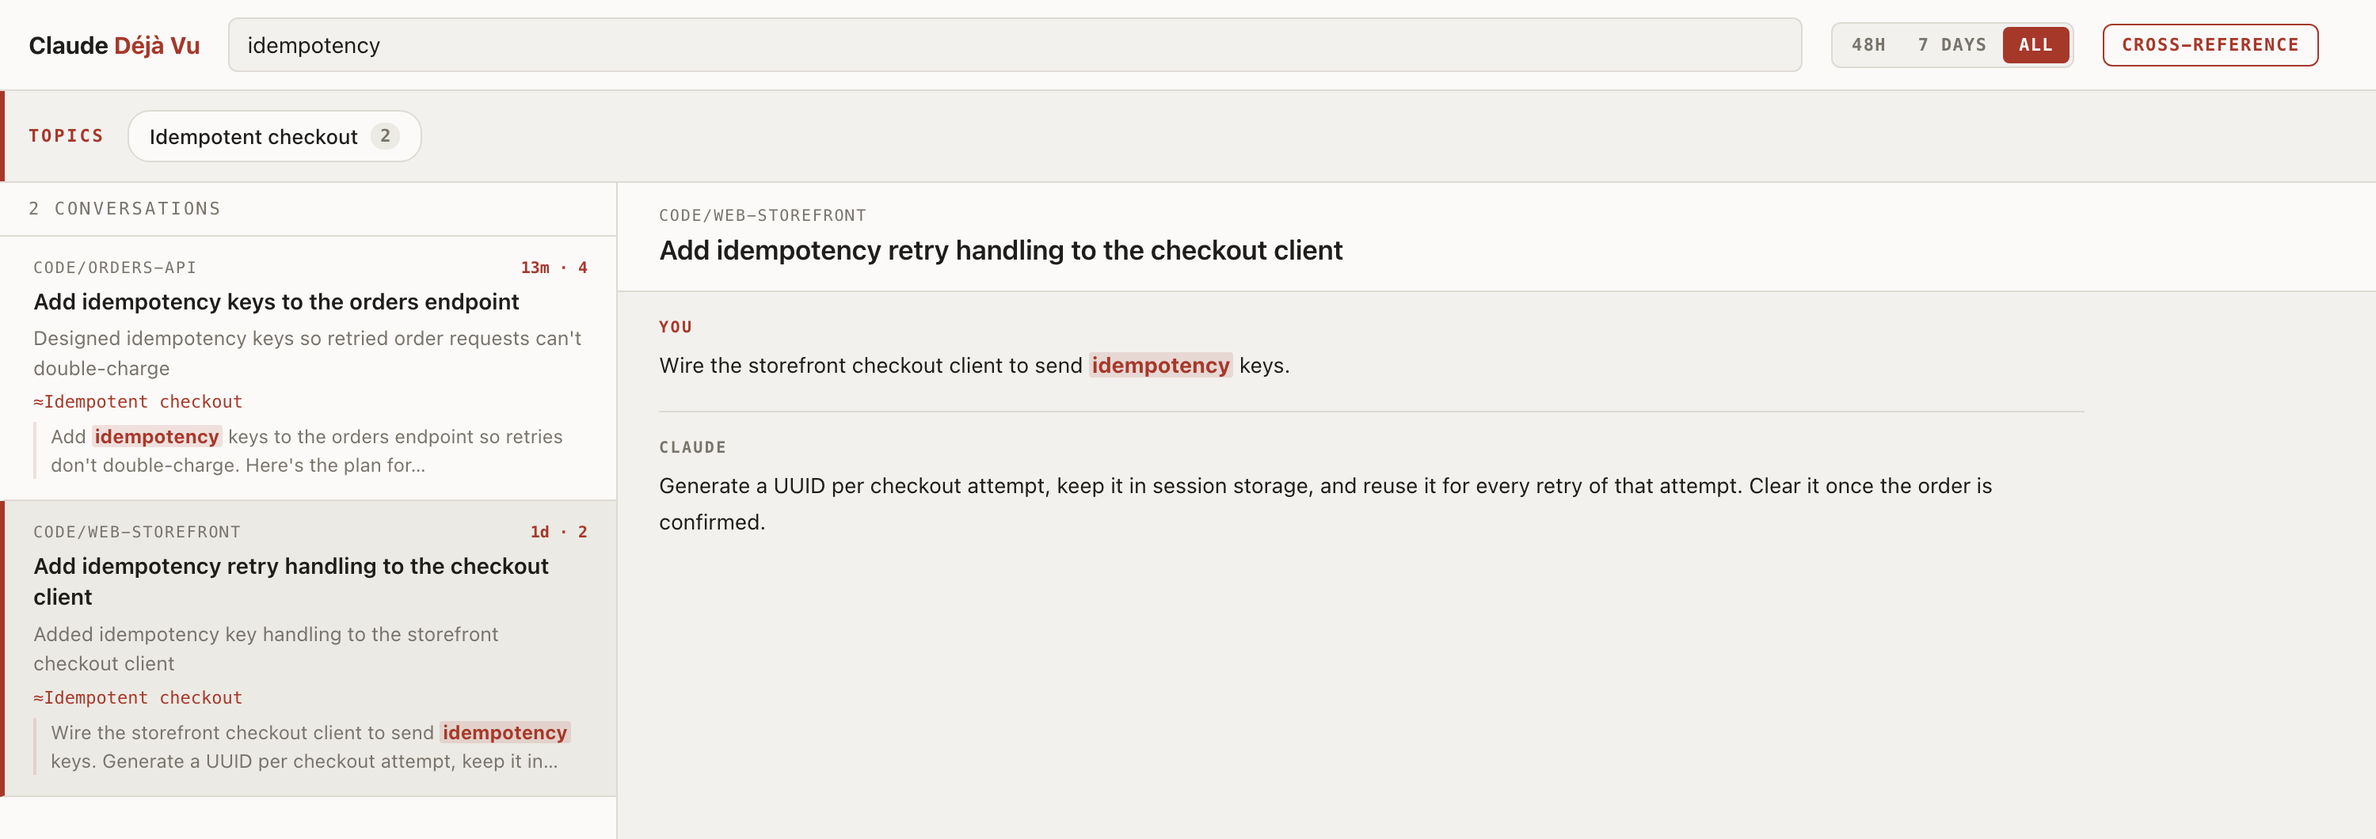
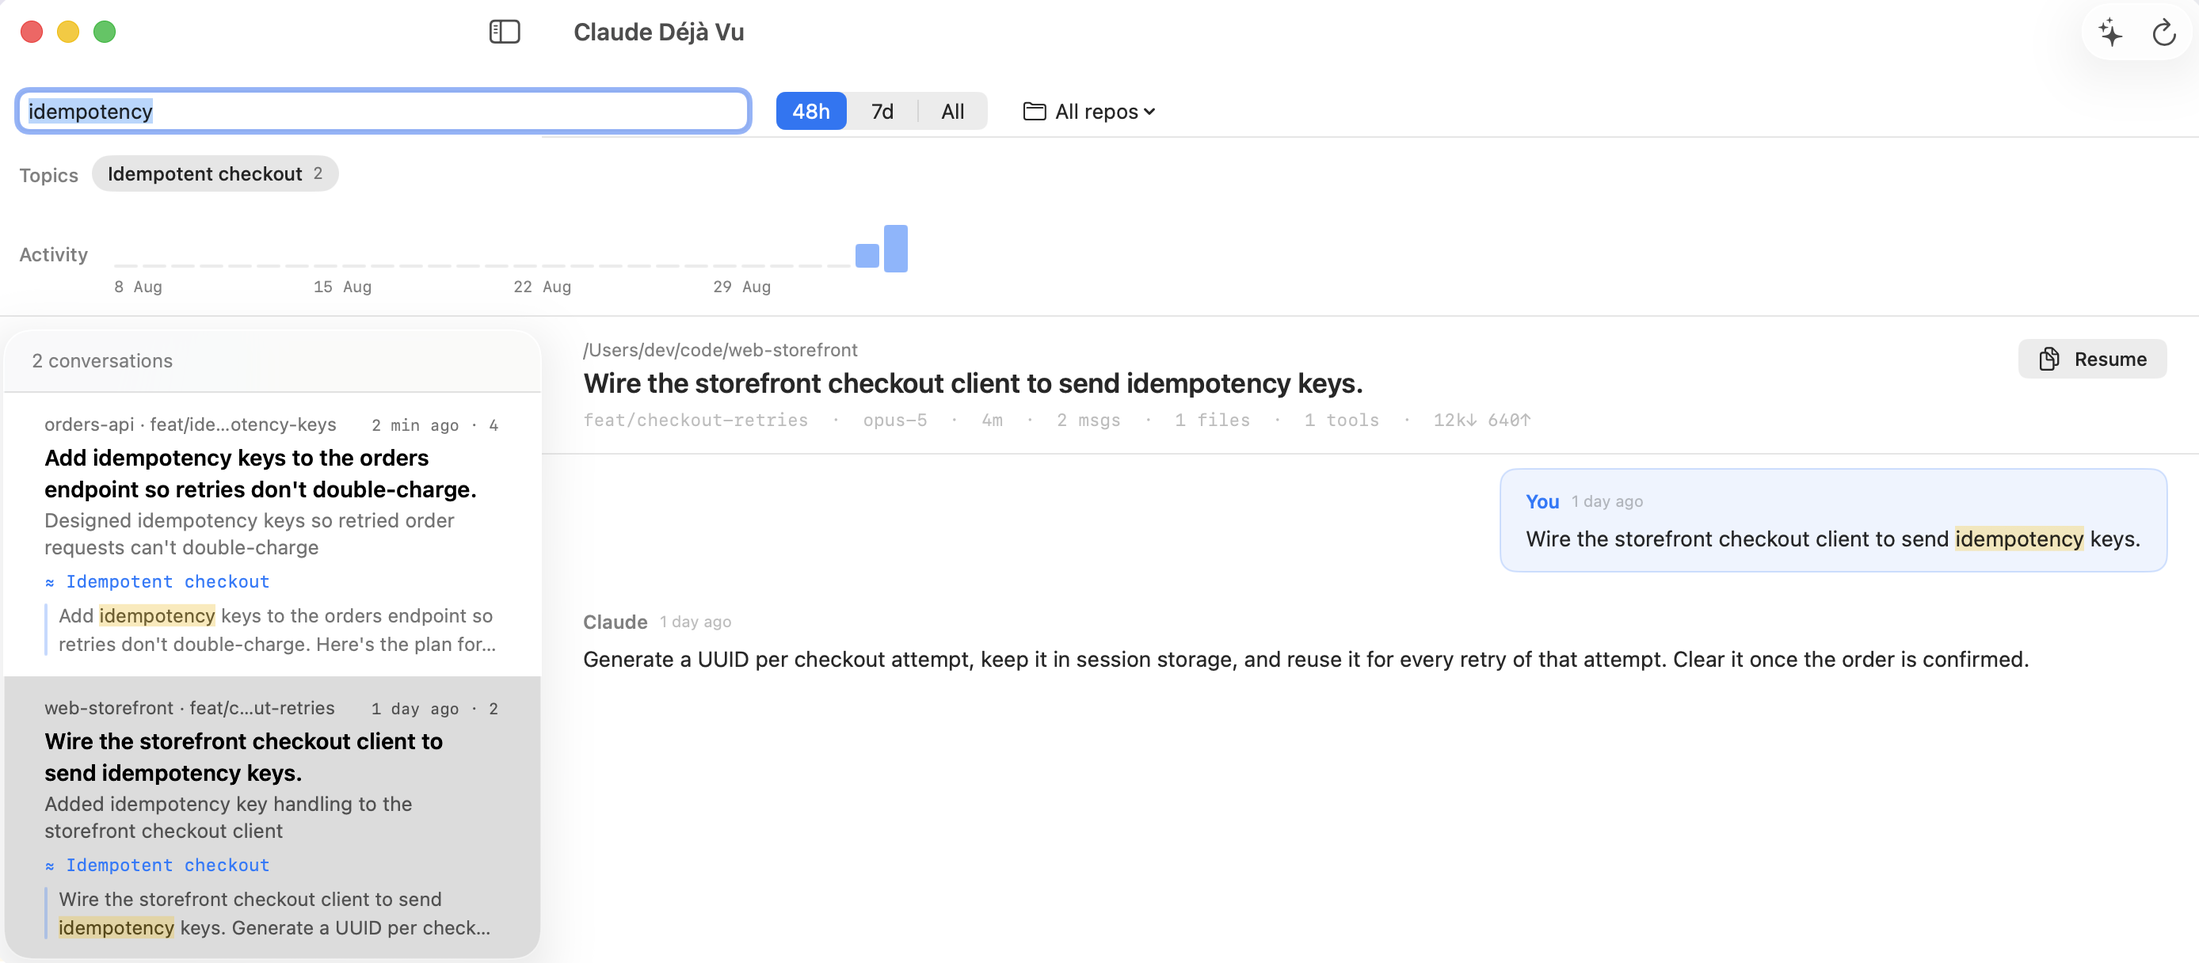
Show the Mac app, not the Python viewer

diff --git a/Scripts/demo-data.py b/Scripts/demo-data.py
@@ -1,0 +1,203 @@
+#!/usr/bin/env python3
+"""Write a fictional ~/.claude/projects tree, for the README screenshots.
+
+The app reads real conversations, which are nobody's business but yours - so the
+screenshots are taken against this instead. Point the app at it with
+DEJAVU_PROJECTS_DIR and DEJAVU_INSIGHTS.
+
+    python3 Scripts/demo-data.py /tmp/demo
+"""
+import json, os, sys, time
+
+now = time.time()
+H = 3600
+
+
+def iso(t):
+    return time.strftime("%Y-%m-%dT%H:%M:%S", time.gmtime(t)) + ".000Z"
+
+
+def user(text, t, cwd, branch):
+    return {"type": "user", "cwd": cwd, "gitBranch": branch, "timestamp": iso(t),
+            "message": {"role": "user", "content": text}}
+
+
+def claude(text, t, cwd, branch, tools=(), usage=(1800, 640)):
+    content = [{"type": "text", "text": text}]
+    for name, path in tools:
+        content.append({"type": "tool_use", "name": name, "id": "tu_%d" % len(content),
+                        "input": {"file_path": path}})
+    return {"type": "assistant", "cwd": cwd, "gitBranch": branch, "timestamp": iso(t),
+            "message": {"role": "assistant", "model": "claude-opus-5",
+                        "content": content,
+                        "usage": {"input_tokens": usage[0],
+                                  "cache_read_input_tokens": usage[0] * 6,
+                                  "output_tokens": usage[1]}}}
+
+
+IDEMPOTENCY_PLAN = """Here's the plan for **idempotent order creation**.
+
+## The mechanism
+
+The client sends an `Idempotency-Key` header. We store the key with the response, so a retry replays the original result instead of creating a second order.
+
+| Step | Behaviour |
+|---|---|
+| First request | Insert key, process, store response |
+| Retry (same key) | Return the stored response, `200` |
+| Retry (in flight) | Return `409 Conflict` |
+
+```sql
+CREATE TABLE idempotency_keys (
+  key        TEXT PRIMARY KEY,
+  response   JSONB NOT NULL,
+  created_at TIMESTAMPTZ DEFAULT now()
+);
+```
+
+Key points:
+
+- The insert must happen in the *same transaction* as the order write.
+- Expire keys after 24h with a scheduled cleanup.
+- Scope keys per-customer so one tenant can't guess another's key."""
+
+ORDERS = "/Users/dev/code/orders-api"
+STORE = "/Users/dev/code/web-storefront"
+INFRA = "/Users/dev/infra/platform-terraform"
+HOME = "/Users/dev/side/homelab"
+
+# (id, title-carrying first user line, cwd, branch, age in hours, turns)
+SESSIONS = [
+    ("7c1f4a90-1111-4aaa-8001-000000000001", ORDERS, "feat/idempotency-keys", 0.22, [
+        ("u", "Add idempotency keys to the orders endpoint so retries don't double-charge."),
+        ("a", IDEMPOTENCY_PLAN, [("Read", ORDERS + "/src/orders/routes.py"),
+                                ("Edit", ORDERS + "/src/orders/routes.py")]),
+        ("u", "What happens if the process dies mid-write?"),
+        ("a", "The transaction rolls back, so neither the key nor the order is stored. "
+              "The retry is then a first request again - which is the behaviour you want.",
+         [("Write", ORDERS + "/migrations/0007_idempotency_keys.sql")]),
+    ]),
+    ("7c1f4a90-2222-4aaa-8002-000000000002", ORDERS, "main", 2.1, [
+        ("u", "Why are checkout latencies spiking at 11pm?"),
+        ("a", "The nightly settlement job holds a table lock on `orders` for ~40s. "
+              "Checkout writes queue behind it. Moving the job to a read replica clears it.",
+         [("Read", ORDERS + "/jobs/settlement.py")]),
+    ]),
+    ("7c1f4a90-3333-4aaa-8003-000000000003", STORE, "main", 3.4, [
+        ("u", "The cart drawer keeps remounting on route change."),
+        ("a", "The drawer lives inside the route subtree, so every navigation unmounts it. "
+              "Hoisting it above the router keeps one instance alive.",
+         [("Edit", STORE + "/src/components/CartDrawer.tsx")]),
+    ]),
+    ("7c1f4a90-4444-4aaa-8004-000000000004", INFRA, "main", 5.2, [
+        ("u", "Split the staging and prod Terraform state files."),
+        ("a", "One state for both environments means a staging apply can touch prod. "
+              "Per-environment backends with separate lock tables fixes that.",
+         [("Read", INFRA + "/environments/prod/backend.tf")]),
+    ]),
+    ("7c1f4a90-5555-4aaa-8005-000000000005", HOME, "main", 19.0, [
+        ("u", "Backups quietly stopped three weeks ago."),
+        ("a", "The restic cron exits 0 even when the repository is unreachable. "
+              "Added a dead-man's switch that alerts when no snapshot lands in 36h.",
+         [("Write", HOME + "/ansible/roles/backup/tasks/main.yml")]),
+    ]),
+    ("7c1f4a90-6666-4aaa-8006-000000000006", STORE, "feat/checkout-retries", 26.0, [
+        ("u", "Wire the storefront checkout client to send idempotency keys."),
+        ("a", "Generate a UUID per checkout attempt, keep it in session storage, and reuse "
+              "it for every retry of that attempt. Clear it once the order is confirmed.",
+         [("Edit", STORE + "/src/api/checkout.ts")]),
+    ]),
+    ("7c1f4a90-7777-4aaa-8007-000000000007", STORE, "main", 33.0, [
+        ("u", "Cache the product feed so the storefront stops refetching it per page."),
+        ("a", "A 5-minute stale-while-revalidate cache in front of the feed cuts it to one "
+              "fetch per window, and the feed only changes on publish.",
+         [("Edit", STORE + "/src/api/feed.ts")]),
+    ]),
+    ("7c1f4a90-8888-4aaa-8008-000000000008", INFRA, "main", 44.0, [
+        ("u", "Rotate the Terraform state encryption key."),
+        ("a", "Re-encrypt with the new KMS key, keep the old one enabled for decrypt until "
+              "every workspace has been applied once, then retire it.",
+         [("Read", INFRA + "/modules/state/kms.tf")]),
+    ]),
+]
+
+# Older conversations: outside the 48h list, but they give the activity strip
+# something to draw across the four-week window.
+OLDER = [
+    (4.5 * 24, ORDERS, "Add a partial-refund path to the payments client"),
+    (5.2 * 24, STORE, "Make the search box keyboard-navigable"),
+    (6.0 * 24, INFRA, "Pin the provider versions before the next apply"),
+    (9.5 * 24, HOME, "Move the media library onto the new pool"),
+    (11.0 * 24, ORDERS, "Batch the webhook fan-out per customer"),
+    (12.5 * 24, STORE, "Trim the bundle: the date library is half of it"),
+    (17.0 * 24, INFRA, "Give each environment its own lock table"),
+    (18.2 * 24, ORDERS, "Retry the settlement job instead of failing the night"),
+    (23.0 * 24, HOME, "Alert when a disk crosses 85 percent"),
+]
+
+
+def encode(cwd):
+    return cwd.replace("/", "-")
+
+
+def write(out):
+    projects = os.path.join(out, "projects")
+    for sid, cwd, branch, age, turns in SESSIONS:
+        d = os.path.join(projects, encode(cwd))
+        os.makedirs(d, exist_ok=True)
+        t = now - age * H
+        lines = []
+        for i, turn in enumerate(turns):
+            ts = t + i * 240
+            if turn[0] == "u":
+                lines.append(user(turn[1], ts, cwd, branch))
+            else:
+                lines.append(claude(turn[1], ts, cwd, branch, turn[2] if len(turn) > 2 else ()))
+        with open(os.path.join(d, sid + ".jsonl"), "w") as f:
+            for line in lines:
+                f.write(json.dumps(line) + "\n")
+
+    for n, (age, cwd, title) in enumerate(OLDER):
+        d = os.path.join(projects, encode(cwd))
+        os.makedirs(d, exist_ok=True)
+        t = now - age * H
+        sid = "7c1f4a90-9999-4aaa-90%02d-0000000090%02d" % (n, n)
+        with open(os.path.join(d, sid + ".jsonl"), "w") as f:
+            f.write(json.dumps(user(title + ".", t, cwd, "main")) + "\n")
+            f.write(json.dumps(claude("Done - see the diff above.", t + 300, cwd, "main")) + "\n")
+
+    insights = {
+        "generated": now,
+        "summaries": {
+            SESSIONS[0][0]: "Designed idempotency keys so retried order requests can't double-charge",
+            SESSIONS[1][0]: "Traced nightly checkout latency spikes to a settlement job holding a table lock",
+            SESSIONS[2][0]: "Fixed the cart drawer remounting by hoisting it above the router",
+            SESSIONS[3][0]: "Split shared Terraform state into per-environment states",
+            SESSIONS[4][0]: "Found backups failing silently; added failure alerts and a dead-man's switch",
+            SESSIONS[5][0]: "Added idempotency key handling to the storefront checkout client",
+            SESSIONS[6][0]: "Cached the product feed to stop per-page refetching",
+            SESSIONS[7][0]: "Rotated the Terraform state encryption key without downtime",
+        },
+        "clusters": [
+            {"label": "Idempotent checkout",
+             "session_ids": [SESSIONS[0][0], SESSIONS[5][0]]},
+            {"label": "Silent failures",
+             "session_ids": [SESSIONS[1][0], SESSIONS[4][0]]},
+            {"label": "Terraform state & secrets",
+             "session_ids": [SESSIONS[3][0], SESSIONS[7][0]]},
+            {"label": "Storefront rendering",
+             "session_ids": [SESSIONS[2][0], SESSIONS[6][0]]},
+        ],
+    }
+    with open(os.path.join(out, "insights.json"), "w") as f:
+        json.dump(insights, f, indent=2)
+
+    print("projects: %s" % projects)
+    print("insights: %s" % os.path.join(out, "insights.json"))
+    print("open first: %s" % SESSIONS[0][0])
+
+
+if __name__ == "__main__":
+    out = sys.argv[1] if len(sys.argv) > 1 else "/tmp/dejavu-demo"
+    os.makedirs(out, exist_ok=True)
+    write(out)

diff --git a/README.md b/README.md
@@ -4,7 +4,7 @@ Find that conversation you had with Claude Code — the one you can't remember w
 
 If you run Claude Code across many terminals and repos, related discussions end up scattered. Claude Déjà Vu reads the session logs Claude Code already writes to `~/.claude/projects/` and gives you one searchable view of them: browse recent conversations, search every message across every project, find the conversation that touched a given file, read the full transcript, and optionally let Claude group related conversations into topics that span repos.
 
-![The dashboard: conversation list on the left, full transcript on the right](docs/screenshot.png)
+![The app: conversation list on the left, full transcript on the right](docs/app.png)
 
 *Screenshots use fictional sample data.*
 
@@ -16,6 +16,8 @@ If you run Claude Code across many terminals and repos, related discussions end 
 - **See when it happened.** An activity strip shows one bar per day across the whole 4-week window. Click a day to filter the list to it. When you search, the strip narrows to days with matches — so it answers "which week was that?" before you start scrolling.
 - **Jump straight to the match.** Open a search result and the transcript scrolls to the first hit, with every occurrence highlighted.
 - **Read comfortably.** Transcripts render markdown — headings, lists, tables, and code blocks — instead of a wall of raw text.
+- **See what a conversation was made of.** Each transcript header carries the model, how long it ran, the message count, and the files and tools it touched.
+- **Follow along live.** The open transcript updates as the conversation continues in your terminal.
 - **Resume where you left off.** One click copies the `cd … && claude --resume …` command for the conversation you're reading.
 - **Group related work (optional).** *Cross-reference* asks Claude to read your recent conversations and group them into topics. Topics span projects, so "auth migration" can pull together conversations from three different repos. Each conversation also gets a one-line summary of what it was actually about.
 
@@ -23,46 +25,34 @@ If you run Claude Code across many terminals and repos, related discussions end 
 
 ## Requirements
 
-- Python 3.8 or newer (no packages to install — standard library only)
+- macOS 14 (Sonoma) or newer
 - Claude Code, with some existing session history
 - The `claude` CLI on your `PATH` — **only** if you want the Cross-reference feature
 
-## Getting started
-
-### The Mac app (Homebrew)
+## Install
 
 ```bash
 brew trust xsreality/tap
 brew install xsreality/tap/claude-deja-vu
 ```
 
-This installs `DejaVu.app` into `/Applications`, so Spotlight and Launchpad find it like any other app. The app is ad-hoc signed rather than notarised, so the **first** launch needs **System Settings → Privacy & Security → Open Anyway**.
+This installs `DejaVu.app` into `/Applications`, so Spotlight and Launchpad find it like any other app. `brew trust` is Homebrew's approval step for a third-party tap; without it the install stops and does nothing.
 
-### The Mac app (download)
+Or download `ClaudeDejaVu-*.dmg` from the [latest release](https://github.com/xsreality/claude-deja-vu/releases/latest) and drag the app to Applications.
 
-Grab `ClaudeDejaVu-*.dmg` from the [latest release](https://github.com/xsreality/claude-deja-vu/releases/latest) and drag the app to Applications. Same ad-hoc signature, so the same one-time **Open Anyway** step applies.
-
-### The Python viewer (any platform)
-
-```bash
-git clone https://github.com/xsreality/claude-deja-vu.git
-cd claude-deja-vu
-python3 python/dashboard.py
-```
-
-Then open **http://127.0.0.1:8765**. Press `Ctrl-C` to stop it.
-
-Nothing to configure and nothing to install. It reads your existing logs each time you load the page, so conversations you're having right now show up when you refresh.
+Either way, the app is signed ad-hoc rather than notarised by Apple, so macOS asks about it the **first** time you open it: **System Settings → Privacy & Security → Open Anyway**. See [Verifying what you installed](#verifying-what-you-installed) for what you can check instead of a notarisation ticket.
 
 ## Using it
 
-**Browsing.** The tool opens showing the last 48 hours. Switch to **7 days** or **All** (the full 4-week window) with the buttons in the top bar. Click any conversation on the left to read it on the right.
+**Browsing.** The app opens showing the last 48 hours. Switch to **7 days** or **All** (the full 4-week window) with the buttons in the top bar. Click any conversation on the left to read it on the right.
 
 **Searching.** Type in the search box. The list narrows to conversations containing your term, each showing a snippet of the match. The time range applies to search too — start with **48h** for something recent, widen to **All** when you're digging.
 
 **The activity strip.** Under the search box, one bar per day for the last 4 weeks, sized by how many messages that day held. Hover a bar for the date, the conversation and message counts, and which projects the day went to. Click one to see only that day — the range switches to **All** so the day is reachable whatever you were looking at, and clicking again clears it. The strip always covers the full window, not the selected range, so a spike three weeks back is still visible while you're browsing the last 48 hours. It reflects your search: with a term in the box, only days containing matches have bars.
 
-**Searching by file.** Start the search with `file:` to search paths instead of prose — `file:dashboard.py`. A list of matching files drops down as you type; pick one with the arrow keys or the mouse to narrow to the conversations that touched exactly that file. Each result shows which paths matched. Only files Claude actually read or wrote are indexed, so this finds work, not directory listings.
+**Searching by file.** Start the search with `file:` to search paths instead of prose — `file:CartDrawer.tsx`. A list of matching files drops down as you type; pick one with the arrow keys or the mouse to narrow to the conversations that touched exactly that file. Each result shows which paths matched. Only files Claude actually read or wrote are indexed, so this finds work, not directory listings.
+
+**One repo at a time.** The repo menu in the top bar narrows the whole view — list, search, and activity strip — to a single project.
 
 **Picking it back up.** Every open conversation has a **Resume** button. It copies `cd <project> && claude --resume <id>` — paste it into a terminal to carry on where you left off.
 
@@ -72,50 +62,63 @@ Nothing to configure and nothing to install. It reads your existing logs each ti
 - A **Topics** bar appears with each topic and how many conversations it contains.
 - Click a topic to filter the list to it; click again to clear.
 
-Results are saved to `python/insights.json`, so they load instantly afterwards and no further Claude calls happen until you click Cross-reference again. Delete it to reset. Re-run it after a few days of new work to refresh the grouping.
-
-**Linking.** The URL tracks what you're looking at, so you can bookmark a view or paste it into your notes:
-
-- `http://127.0.0.1:8765/#<conversation-id>` — opens that conversation
-- `http://127.0.0.1:8765/?q=retry&scope=7d` — opens that search
+Results are cached in `~/Library/Application Support/DejaVu/insights.json`, so they load instantly afterwards and no further Claude calls happen until you click Cross-reference again. Delete that file to reset. Re-run it after a few days of new work to refresh the grouping.
 
 ## Privacy
 
-- The tool **only reads** your session logs. It never modifies or deletes them.
-- It serves on `127.0.0.1` — nothing is exposed to your network.
-- Browsing and searching are entirely local and involve no network calls.
+- The app **only reads** your session logs. It never modifies or deletes them.
+- Browsing and searching are entirely local and make no network calls at all.
 - **Cross-reference is the one exception:** it sends a short excerpt of each recent conversation (about 700 characters per conversation, sampled from the start, middle, and end) to Claude via the `claude` CLI. That's the same trust boundary as using Claude Code itself, and it only happens when you click the button.
 
-## Adjusting it
+## Verifying what you installed
 
-The knobs are constants at the top of `python/dashboard.py`:
+Every release is built by a GitHub Actions workflow in this repository and carries a signed [build provenance attestation](https://docs.github.com/actions/security-guides/using-artifact-attestations). You can check that the DMG you downloaded came from this repository's workflow, and not from anywhere else:
+
+```bash
+gh attestation verify ClaudeDejaVu-0.1.2.dmg --repo xsreality/claude-deja-vu
+```
+
+That verifies, against Sigstore's public transparency log, which commit and which workflow produced the file. The Homebrew cask runs the same check before it will pin a new release, so a `brew install` only ever fetches a DMG whose provenance was verified.
+
+The release also carries `SHA256SUMS`, and the cask pins the DMG's SHA-256, so Homebrew refuses a download whose bytes don't match.
+
+What this does **not** give you is Apple notarisation — that needs a paid Apple Developer account, so the one-time "Open Anyway" step stays. If you'd rather run only code you compiled yourself, build from source below; the app has no third-party dependencies.
+
+To report a security problem, see [SECURITY.md](SECURITY.md).
+
+## Building from source
+
+```bash
+swift run DejaVu --selftest      # assert the parsing layer
+./Scripts/make-app.sh            # build build/DejaVu.app
+./Scripts/make-dmg.sh            # package it as a DMG
+./Scripts/make-icon.sh           # regenerate the icon from Resources/icon.svg
+```
+
+`swift build` is enough on its own; `make-app.sh` only wraps the binary in a `.app` so it gets a dock icon and a double-click launch. There are no third-party dependencies, and no Xcode project — the Xcode command line tools are all you need.
+
+Two environment variables point the app somewhere other than your live logs, which is how the screenshots above are taken:
+
+```bash
+python3 Scripts/demo-data.py /tmp/demo
+DEJAVU_PROJECTS_DIR=/tmp/demo/projects DEJAVU_INSIGHTS=/tmp/demo/insights.json \
+  build/DejaVu.app/Contents/MacOS/DejaVu
+```
+
+The knobs are constants at the top of the sources:
 
 | Setting | Default | What it does |
 |---|---|---|
-| `PORT` | `8765` | Port the dashboard serves on |
-| `WEEKS` | `4` | How far back to scan; older conversations are ignored entirely |
-| `MAX_ANALYZE_SESSIONS` | `40` | How many recent conversations Cross-reference sends to Claude |
-| `SAMPLE_CHARS` | `700` | How much of each conversation is sampled for Cross-reference |
-| `MAX_COMPLETIONS` | `20` | How many paths the `file:` autocomplete offers at once |
-
-Two environment variables are useful for pointing the viewer somewhere other than your live logs:
-
-```bash
-DEJAVU_PROJECTS_DIR=/path/to/logs DEJAVU_INSIGHTS=/path/to/insights.json python3 python/dashboard.py
-```
+| `weeks` | `4` | How far back to scan; older conversations are ignored entirely |
+| `maxAnalyzeSessions` | `40` | How many recent conversations Cross-reference sends to Claude |
+| `sampleChars` | `700` | How much of each conversation is sampled for Cross-reference |
+| `maxCompletions` | `20` | How many paths the `file:` autocomplete offers at once |
 
 ## Good to know
 
-- **Only the last 4 weeks are visible.** This keeps it fast and the list relevant. Raise `WEEKS` if you want more history.
+- **Only the last 4 weeks are visible.** This keeps it fast and the list relevant. Raise `weeks` if you want more history.
 - **Cross-reference covers the 40 most recent conversations,** not all of them. Sending everything overwhelms the CLI, so it's capped deliberately.
 - **Topic quality varies.** The grouping comes from a sample of each conversation, so it's a helpful index, not a perfect one.
-- **It's a personal tool, not a service.** No database, no auth, no packaging — a single file you run when you need it.
-
-To check the parsing logic still works after any change:
-
-```bash
-python3 python/dashboard.py --selftest
-```
 
 ## License
 
